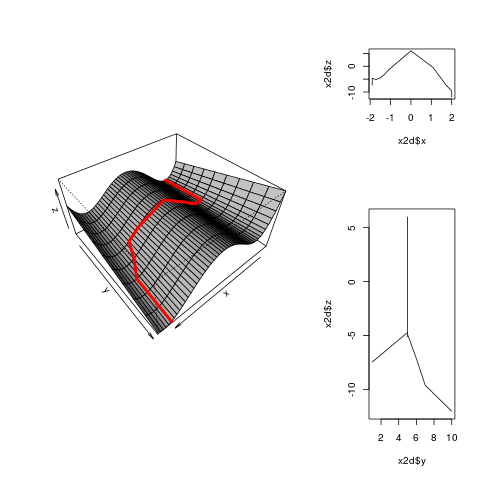
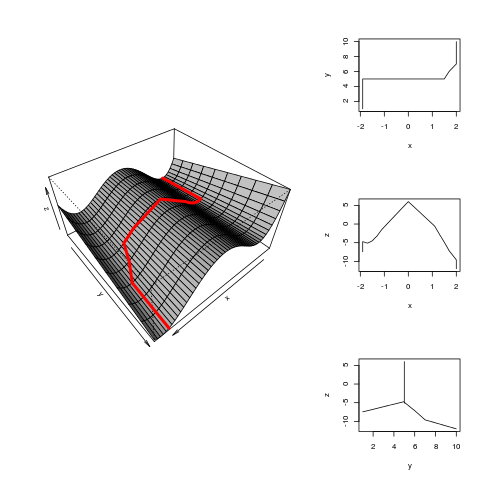
add stuff

diff --git a/_posts/2013-12-21-add-2d-plots-of-trend-and-wiggle-to-catastrophic-regime-shifts-plot.md b/_posts/2013-12-21-add-2d-plots-of-trend-and-wiggle-to-catastrophic-regime-shifts-plot.md
@@ -9,11 +9,11 @@ categories:
 ---
 
 <head>
-<title>Catastrophic Regime Shifts Visualisation </title>
+<title>Catastrophic Regime Shifts Visualisation  </title>
 <meta http-equiv="Content-Type" content="text/html;charset=utf-8"/>
-<meta name="title" content="Catastrophic Regime Shifts Visualisation "/>
+<meta name="title" content="Catastrophic Regime Shifts Visualisation  "/>
 <meta name="generator" content="Org-mode"/>
-<meta name="generated" content="2013-12-21T01:01+1100"/>
+<meta name="generated" content="2013-12-21T11:39+1100"/>
 <meta name="author" content="Ivan Hanigan"/>
 <meta name="description" content=""/>
 <meta name="keywords" content=""/>
@@ -121,7 +121,7 @@ for the JavaScript code in this tag.
 </div>
 
 <div id="content">
-<h1 class="title">Catastrophic Regime Shifts Visualisation </h1>
+<h1 class="title">Catastrophic Regime Shifts Visualisation  </h1>
 
 
 <hr/>
@@ -144,15 +144,27 @@ for the JavaScript code in this tag.
 <h2 id="sec-1"><span class="section-number-2">1</span> Try adding 2D plot of the trend overtime and the variation within basins of attraction</h2>
 <div class="outline-text-2" id="text-1">
 
-<p>Following on from the previous work I now want to calculate the 2D paths.
-</p>
+<ul>
+<li>Following on from the previous work I now want to calculate the 2D paths.
+</li>
+<li>This will then form the basis for a "walk through" animation 
+</li>
+<li>Either with recorded narration or annotations that appear at the right time to describe each transition
+</li>
+<li>This is most of what I want to include except I have not added the wiggly variations around the main trend line, that show the system varying within the basin of attraction
+</li>
+<li>I got advice that Blender3d was the best way to finish this off.  Any other suggestions?
+</li>
+</ul>
+
+
 </div>
 
 <div id="outline-container-1-1" class="outline-3">
 <h3 id="sec-1-1"><span class="section-number-3">1.1</span> figure</h3>
 <div class="outline-text-3" id="text-1-1">
 
-<p><img src="/images/TrendsAndTriggers-v2.1.png"  alt="/images/TrendsAndTriggers-v2.1.png" />
+<p><img src="/images/TrendsAndTriggers-v2.1.gif"  alt="/images/TrendsAndTriggers-v2.1.gif" />
 </p>
 
 </div>
@@ -186,19 +198,32 @@ xind <span style="color: #268bd2; font-weight: bold;">&lt;-</span> xindex[j]
 }
 <span style="color: #586e75;">#  </span><span style="color: #586e75;">x2d</span>
 
-png(<span style="color: #2aa198;">"/images/TrendsAndTriggers-v2.1.png"</span>)
-layout(matrix(c(1,2,1,3), 2, 2, byrow = <span style="color: #b58900;">TRUE</span>), widths=c(2,1), heights=c(1,2))
+<span style="color: #586e75;">#</span><span style="color: #586e75;">png("/images/TrendsAndTriggers-v2.1.gif")</span>
+setwd(<span style="color: #2aa198;">"images"</span>)
+saveGIF(
+{
+ani.options(interval = 0.2)  
+<span style="color: #859900; font-weight: bold;">for</span>(ith <span style="color: #859900; font-weight: bold;">in</span> 100:140){
+layout(matrix(c(1,2,1,3,1,4), 3, 2, byrow = <span style="color: #b58900;">TRUE</span>), widths=c(2,1), heights=c(2,2,2))
+<span style="color: #586e75;"># </span><span style="color: #586e75;">layout.show(4)</span>
 res <span style="color: #268bd2; font-weight: bold;">&lt;-</span>  persp(x, 1:10, matrix(data_out$z, ncol = 10, nrow = length(x)),
                ylab= <span style="color: #2aa198;">"y"</span>,  xlab= <span style="color: #2aa198;">"x"</span>, zlab = <span style="color: #2aa198;">"z"</span>,  
-               theta = 140, 
+               theta = ith, 
                phi = 42, ltheta = 120, shade = 0.75,
                expand = 0.5, col = <span style="color: #2aa198;">"lightgrey"</span>)
 lines (trans3d(x2d$x, x2d$y, x2d$z, pmat = res), col = <span style="color: #2aa198;">"red"</span>, lwd = 4)
-plot(x2d$x, x2d$z, type = <span style="color: #2aa198;">"l"</span>)
-plot(x2d$y, x2d$z, type = <span style="color: #2aa198;">"l"</span>)
-dev.off()
-</pre>
+plot(x2d$x, x2d$y, type = <span style="color: #2aa198;">"l"</span>, xlab=<span style="color: #2aa198;">"x"</span>, ylab=<span style="color: #2aa198;">"y"</span>)
+plot(x2d$x, x2d$z, type = <span style="color: #2aa198;">"l"</span>, xlab=<span style="color: #2aa198;">"x"</span>, ylab=<span style="color: #2aa198;">"z"</span>)
+plot(x2d$y, x2d$z, type = <span style="color: #2aa198;">"l"</span>, xlab=<span style="color: #2aa198;">"y"</span>, ylab=<span style="color: #2aa198;">"z"</span>)
+}
+}
 
+outdir = getwd(), movie.name = <span style="color: #2aa198;">"TrendsAndTriggers-v2.1.gif"</span>
+)
+setwd(<span style="color: #2aa198;">".."</span>)
+
+<span style="color: #586e75;">#  </span><span style="color: #586e75;">dev.off()</span>
+</pre>
 
 
 </div>
